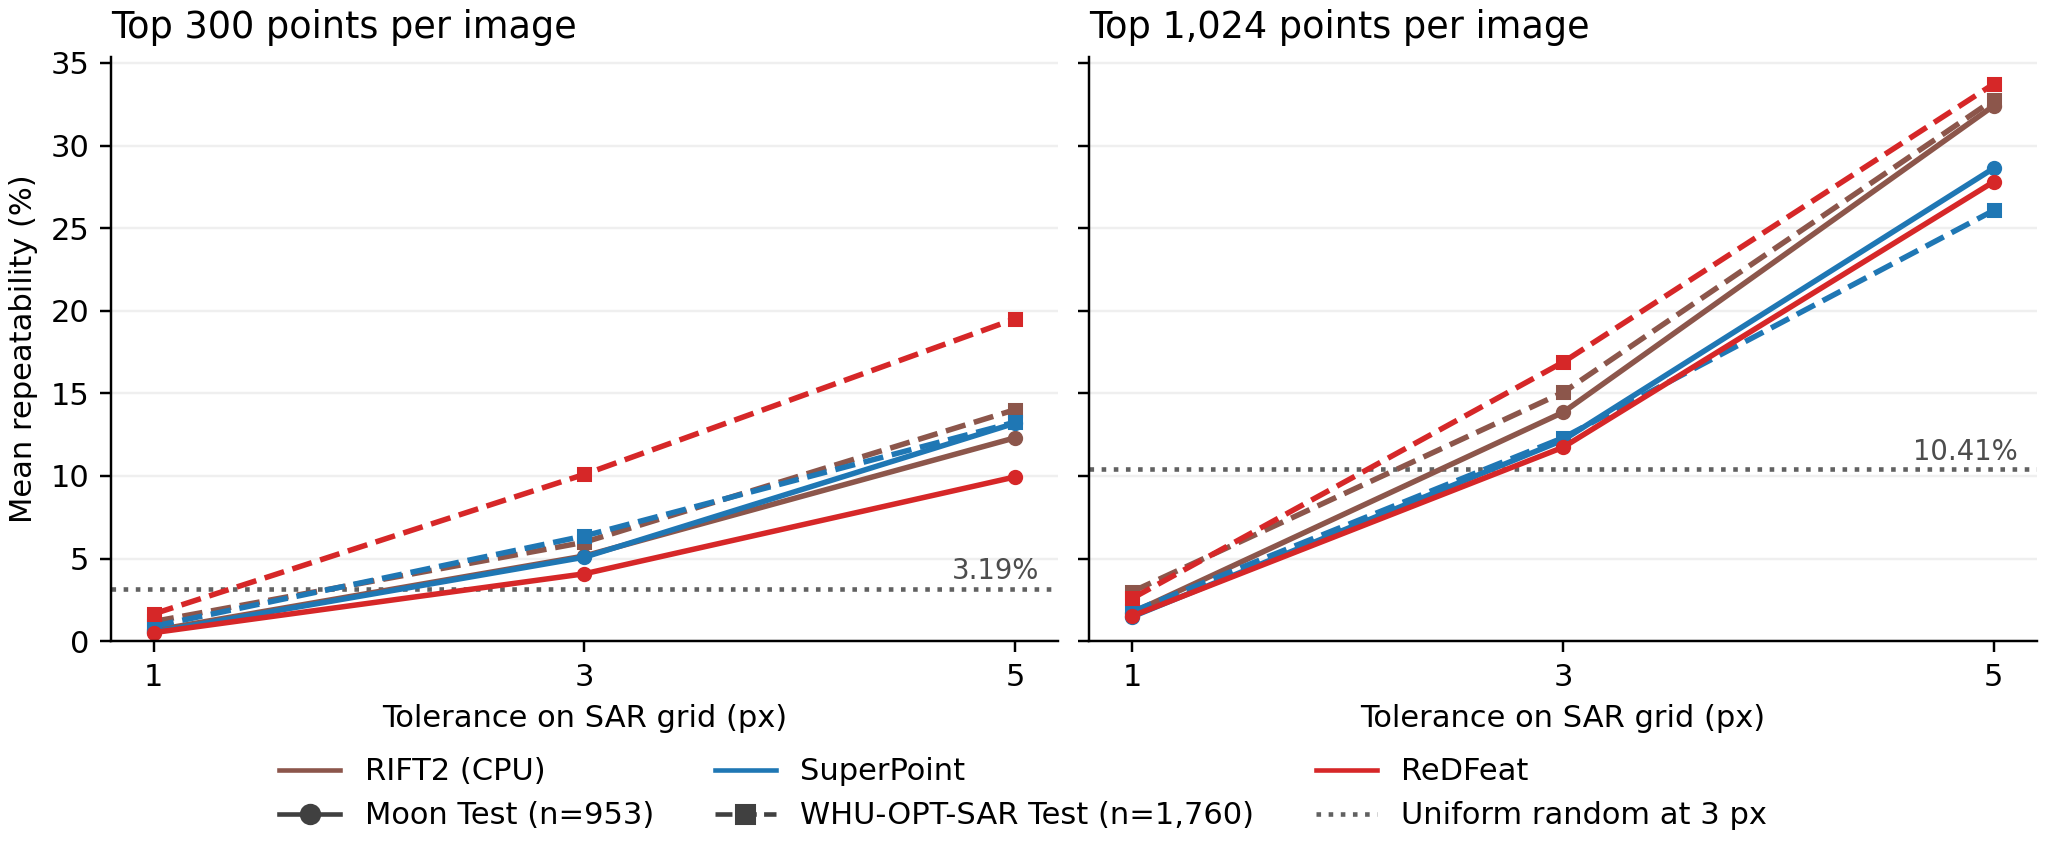
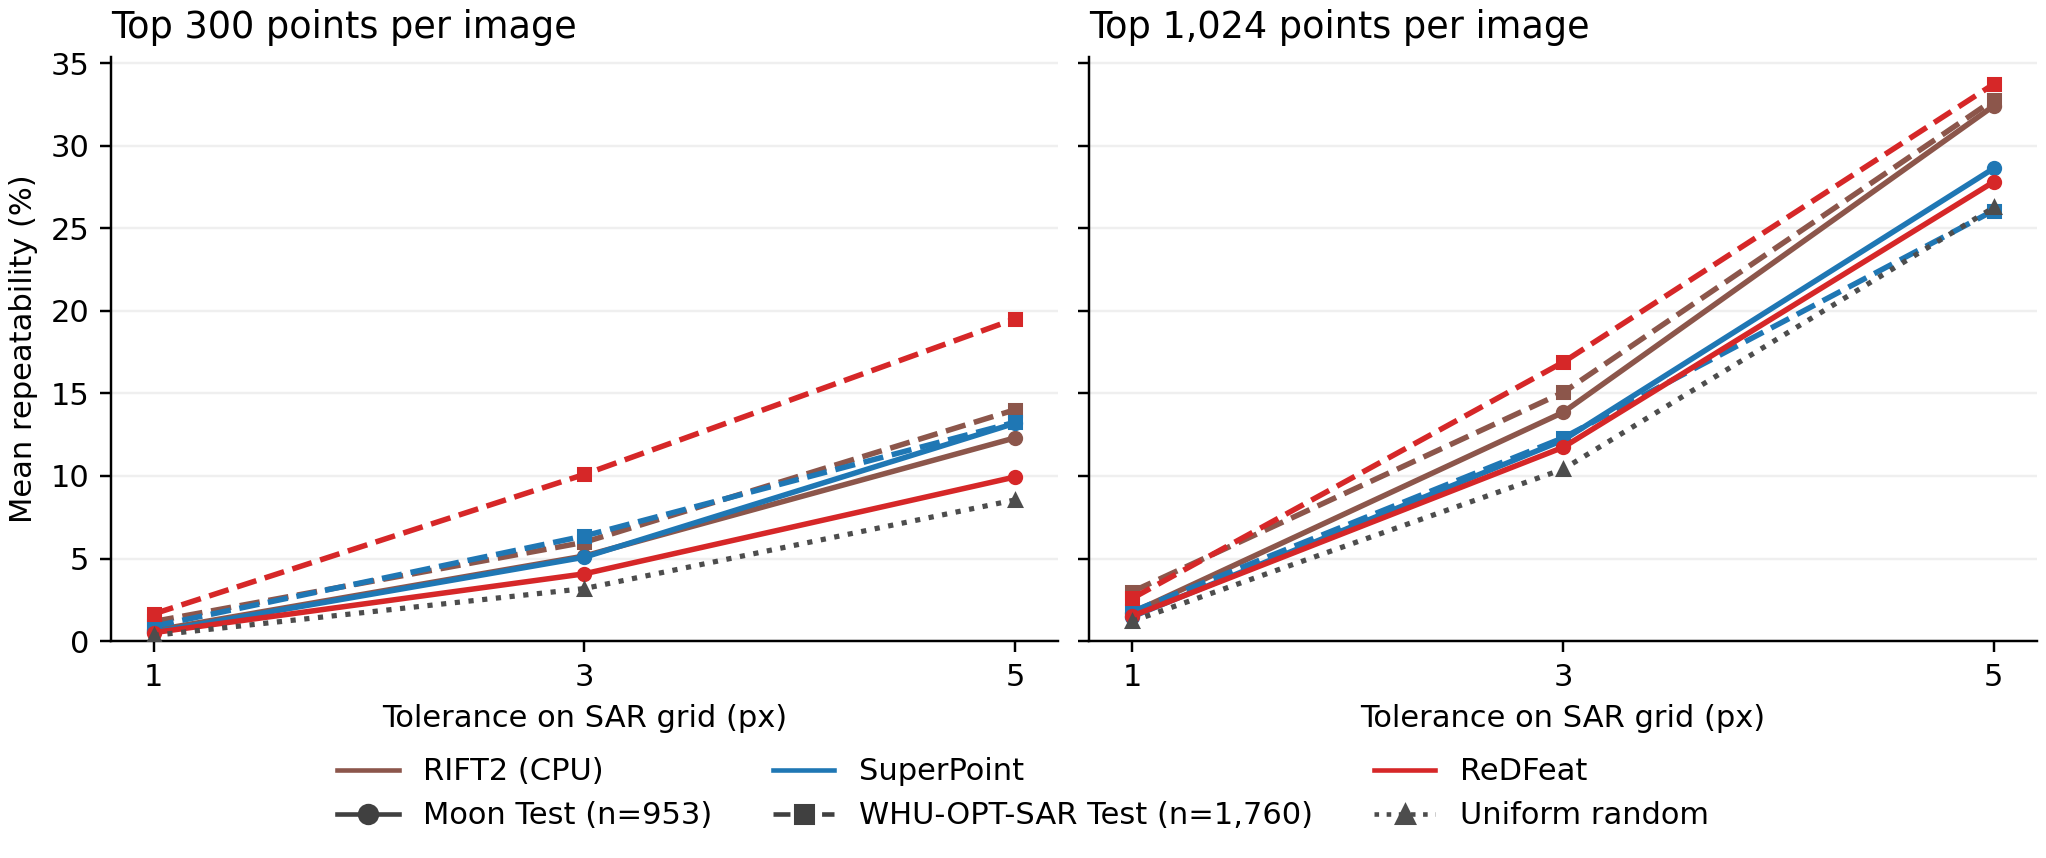
Archive the tolerance-dependent random comparison

diff --git a/runs/E52/notes.md b/runs/E52/notes.md
@@ -137,7 +137,7 @@
 
 ![RIFT2、SuperPoint 和 ReDFeat 在月球与 WHU 上的同轴对比](extra/full_test/moon_whu_comparison.png)
 
-图 3。曲线给出 1、3、5 px 容差下的平均可重复率。颜色区分检测器，实线表示月球，虚线表示 WHU。灰色水平点线标出 3 px 容差下的均匀随机点参照。随机点在完整的 512 × 512 像素窗口内独立采样，每侧取 300 点时为 3.19%，每侧取 1,024 点时为 10.41%。 [PDF](extra/full_test/moon_whu_comparison.pdf) · [随机点参照数据](extra/e51_earth_checks.json)
+图 3。曲线给出 1、3、5 px 容差下的平均可重复率。颜色区分检测器，实线表示月球，虚线表示 WHU。灰色点线是随容差变化的均匀随机点参照。每种点数上限在完整的 512 × 512 像素窗口两侧独立抽样 1,000 次，采用同样的双向最近邻命中率，在 1、3、5 px 各计算一次。月球和 WHU 在同一面板共用这个整窗参照。 [PDF](extra/full_test/moon_whu_comparison.pdf) · [随机点参照代码](code/check_earth.py)
 
 **讨论**
 
